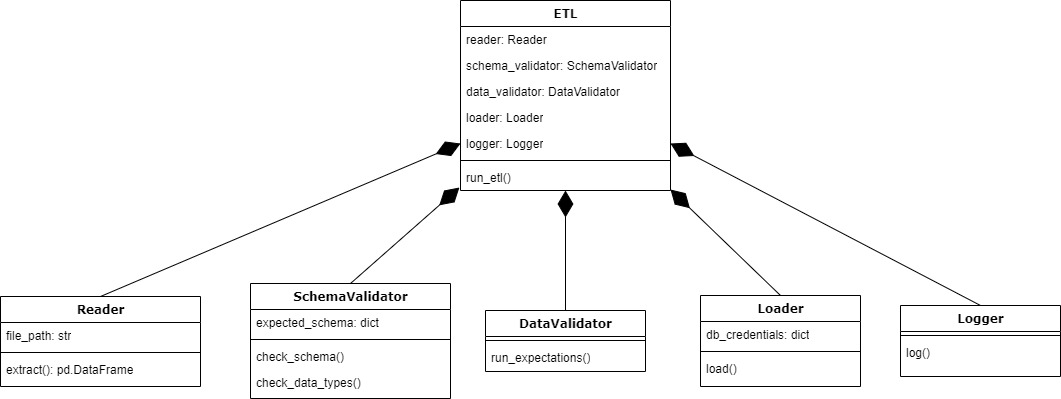
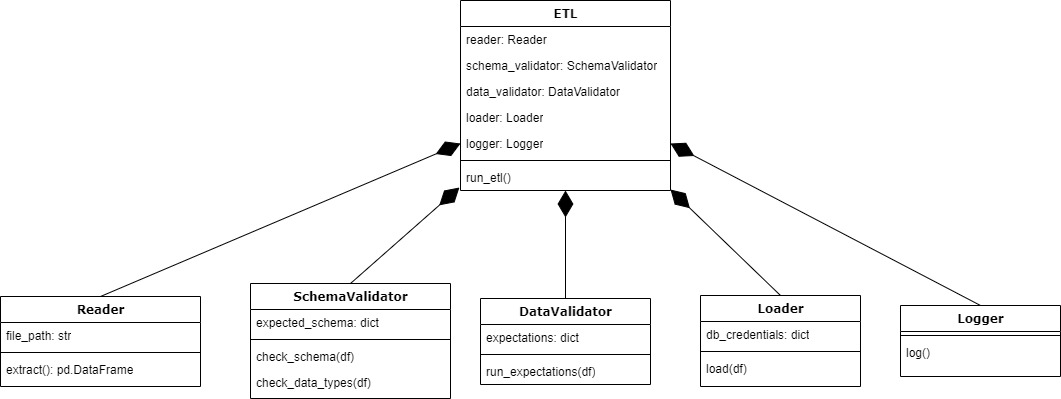
classes implemented

Changed region(s): [[0.4354, 0.7519, 0.6221, 0.9624], [0.6843, 0.9023, 0.7154, 0.9323], [0.311, 0.8722, 0.3421, 0.9023]]

diff --git a/code/etl/schema_validator.py b/code/etl/schema_validator.py
@@ -1,21 +1,58 @@
+import pandas as pd
+
+
 class SchemaValidator:
     """
-    [summary]
+    This object is in charge of validating the schema of the file received with
+    the expected schema. Given the requirement that the schema may change over time,
+    proper checks were implemented with a certain level of flexibility.
+
+    First, the Python module will check if the schema matches with the expected one
+    if it's successful it will check the data types expected for each attribute, if
+    something goes wrong at this stage the execution will stop and will log.
+
+    If the schema does not match, it will stop the execution and will not run until
+    a proper expected schema is passed that matches with the data received (this
+    assumes that the schema may change, but it will not change that often).
     """
 
     def __init__(self, expected_schema: dict):
         self.expected_schema = expected_schema
 
-    def check_schema(self):
+    def check_schema(self, df: pd.DataFrame):
         """
-        [summary]
+        Check if the schema matches with the expected one, if something goes wrong at
+        this stage the execution will stop and will log
+
+        Args:
+            df (pd.DataFrame): data
+
+        Raises:
+            Exception: if something went wrong it'll raise an exception
+        """
+        if (
+            df.dtypes.apply(lambda x: x.name).to_dict().keys()
+            != self.expected_schema.keys()
+        ):
+            # log: schema doesn't match
+            raise Exception("The data schema doesn't match with the expected schema")
+
+        # log: schema match
+
+    def check_data_types(self, df: pd.DataFrame):
+        """
+        Check if the data types matches with the expected ones, if something goes wrong
+        at this stage the execution will stop and will log
+
+        Args:
+            df (pd.DataFrame): data
+
+        Raises:
+            Exception: if something went wrong it'll raise an exception
         """
 
-        pass
+        if df.dtypes.apply(lambda x: x.name).to_dict() != self.expected_schema:
+            # log: data types doesn't match
+            raise Exception("The data types doesn't match with the expected schema")
 
-    def check_data_types(self):
-        """
-        [summary]
-        """
-
-        pass
+        # log: data types match

diff --git a/code/etl/etl.py b/code/etl/etl.py
@@ -7,23 +7,47 @@ from logger import Logger
 
 class ETL:
     """
-    [summary]
+    The main object is an ETL Class, which runs the entire data pipeline and
+    uses other classes to leverage its implementations, such as reading any
+    file, running schema and data validations over that file, loading that
+    data into a proper database, and monitoring the whole flow of the pipeline.
     """
 
-    def __init__(self):
-        self.reader = Reader()
-        self.schema_validator = SchemaValidator()
-        self.data_validator = DataValidator()
-        self.loader = Loader()
+    def __init__(
+        self,
+        file_path: str,
+        expected_schema: dict,
+        expectations: dict,
+        db_credentials: dict,
+    ):
+        """
+        Args:
+            file_path (str): relative path to the file to read
+            expected_schema (dict): pandas data types expected
+                {object, int64, float64, datetime64[ns], bool}
+            expectations (dict): great expectations checks that will run
+            db_credentials (dict): database cerdentials
+        """
+
+        self.reader = Reader(file_path)
+        self.schema_validator = SchemaValidator(expected_schema)
+        self.data_validator = DataValidator(expectations)
+        self.loader = Loader(db_credentials)
         self.logger = Logger()
 
     def run_etl(self):
         """
-        [summary]
+        Main method that runs the entire data pipeline
         """
 
-        self.reader.extract()
-        self.schema_validator.check_schema()
-        self.schema_validator.check_data_types()
-        self.data_validator.run_expectations()
-        self.loader.load()
+        # log initiating read of the file
+        df = self.reader.extract()
+        # log initiating check of the schema
+        self.schema_validator.check_schema(df)
+        # log initiating check of the data types
+        self.schema_validator.check_data_types(df)
+        # log initiating execution of data validations
+        self.data_validator.run_expectations(df)
+        # log initiating load of the data to the DB
+        self.loader.load(df)
+        # log the ETL executed succesfully

diff --git a/code/etl/data_validator.py b/code/etl/data_validator.py
@@ -1,18 +1,43 @@
+import pandas as pd
 import great_expectations as ge
-from great_expectations.dataset import (
-    PandasDataset,
-    MetaPandasDataset,
-)
 
 
 class DataValidator:
     """
-    [summary]
+    This object is in charge of validating the data received.
+    Here, with the help of the Great Expectations module, several
+    tests (expectations) will run. For instance: the number of rows,
+    number of unique rows, number of unique rows based on a primary key,
+    expected values over columns, nulls columns check, etc.
     """
 
-    def run_expectations(self):
+    def __init__(self, expectations: dict):
+        self.expectations = expectations
+
+    def run_expectations(self, df: pd.DataFrame):
         """
-        [summary]
+        Method that executes all the received data validations over the data
+
+        Args:
+            df (pd.DataFrame): data
+
+        Raises:
+            Exception: if something went wrong it'll raise an exception
         """
 
-        pass
+        df_ge = ge.from_pandas(df)
+        failed_results = []
+        for expectation, args in self.expectations.items():
+            if expectation == "expect_column_to_exist":
+                res = df_ge.expect_column_to_exist(args)
+                # log results {res}
+                if not res["success"]:
+                    failed_results.append(res)
+
+            else:
+                # log the following expectation wasn't able to run {expectation}
+                continue
+
+        if len(failed_results) > 0:
+            # log the following expectations failed {failed_results}
+            raise Exception(f"The following expectations failed {failed_results}")

diff --git a/code/etl/reader.py b/code/etl/reader.py
@@ -3,7 +3,12 @@ import pandas as pd
 
 class Reader:
     """
-    [summary]
+    This object is in charge of extracting the data from any file received.
+    The correct formatting of the file is checked here, for instance: if a JSON
+    file is received the code will check and validate that the file is a valid JSON.
+    Finally, if everything goes well, it will read it successfully and will be stored
+    in a Pandas DataFrame, otherwise, the execution will fail and the pipeline will stop.
+    Remember that everything will be logged using the Logger object.
     """
 
     def __init__(self, file_path: str):
@@ -11,10 +16,26 @@ class Reader:
 
     def extract(self) -> pd.DataFrame:
         """
-        [summary]
+        Extract the data of the received file
 
         Returns:
-            pd.DataFrame: [description]
+            pd.DataFrame: pandas dataframe with the data loaded in it
+
+        Raises:
+            Exception: if something went wrong it'll raise an exception
         """
 
-        pass
+        try:
+            df = pd.read_json(
+                self.file_path,
+                convert_dates=True,
+                keep_default_dates=True,
+                encoding="utf-8",
+            )
+            # log the file was read successfully
+
+        except:
+            # log couldn't read the file
+            raise Exception("Couldn't read the file")
+
+        return df

diff --git a/code/etl/loader.py b/code/etl/loader.py
@@ -1,12 +1,18 @@
 import psycopg2
+import pandas as pd
 
 
 class Loader:
     """
-    [summary]
+    This object is in charge of inserting the data into a staging area
+    of the desired database. It manages the data schema changes by 
+    creating new columns over the tables when needed. It's is important
+    to note that this will only insert data that passed all the previous 
+    checks and it will not update nor delete any data already stored in 
+    the target database.
     """
 
-    def load(self):
+    def load(self, df: pd.DataFrame):
         """
         [summary]
         """

diff --git a/code/etl/main.py b/code/etl/main.py
@@ -1,0 +1,18 @@
+""" 
+Example of how the module could be used
+"""
+
+from etl import ETL
+
+
+file_path = "../../data.json"
+expected_schema = {
+    "event_type": "int64",
+    "event_time": "datetime64[ns]",
+    "data": "object",
+    "processing_date": "object",
+}
+expectations = {"expect_column_to_exist": "data"}
+
+etl = ETL(file_path, expected_schema, expectations)
+etl.run_etl()
